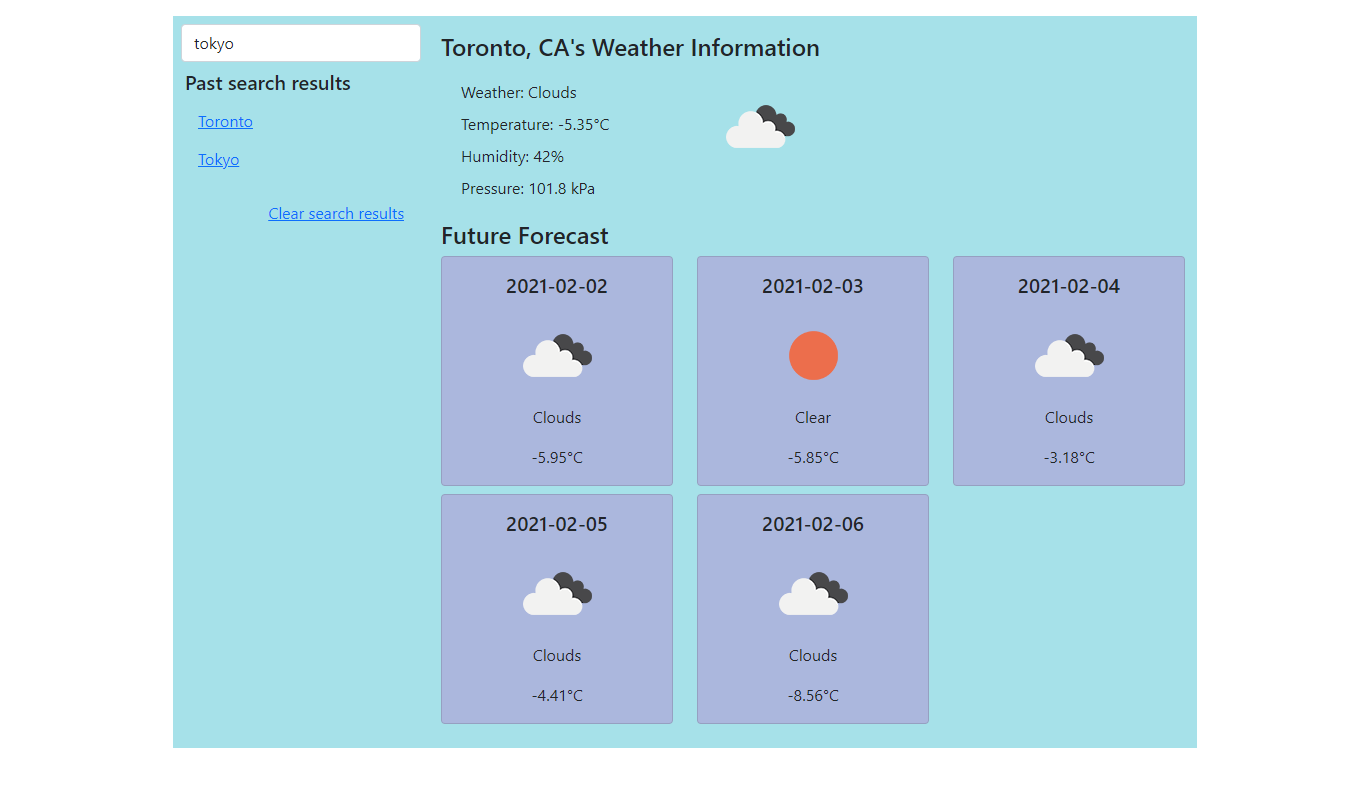
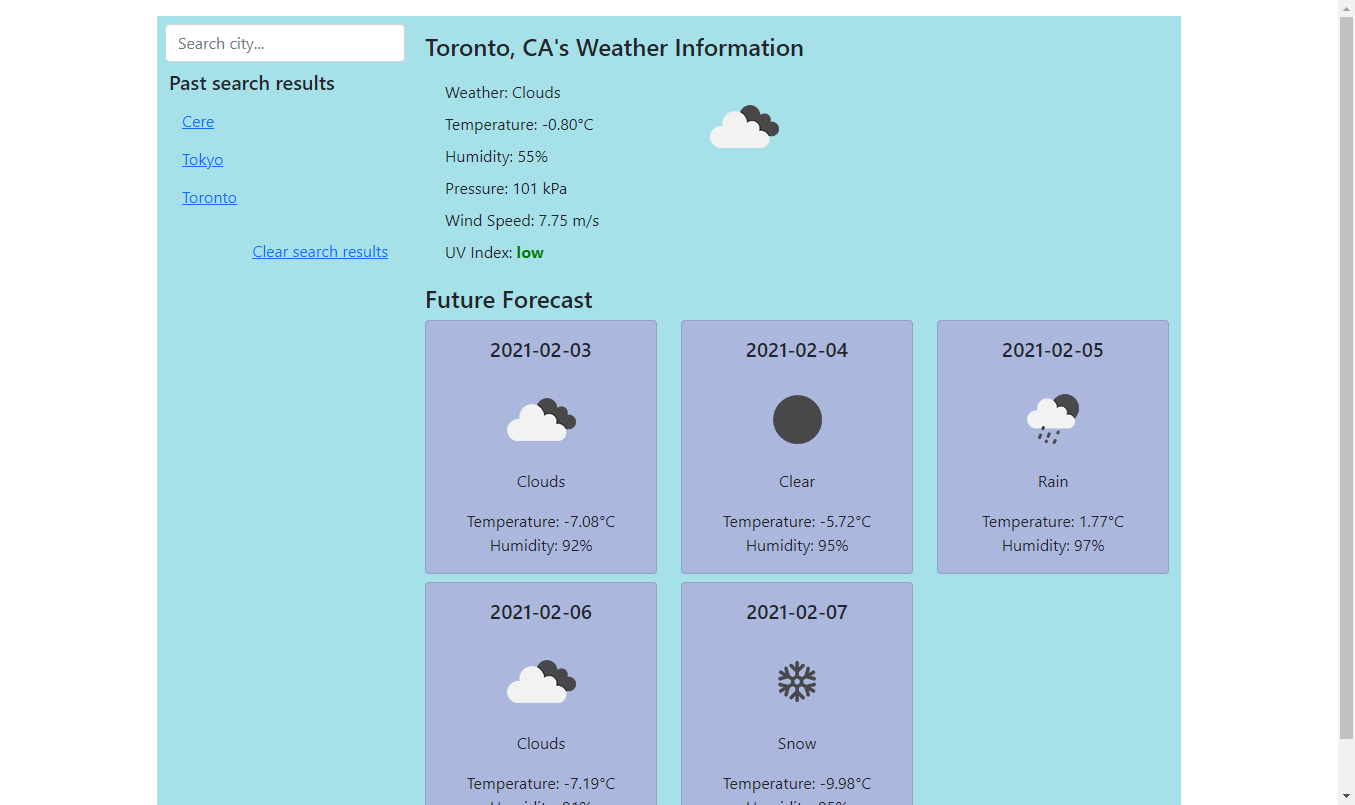
added more functionality

diff --git a/script.js b/script.js
@@ -1,4 +1,4 @@
-apiKey = '88547ae129179c5b0317315ddf40567c';
+const apiKey = '88547ae129179c5b0317315ddf40567c';
 
 // Load in saved locations
 let cityList = localStorage.cityList ? JSON.parse(localStorage.cityList): [];
@@ -7,7 +7,7 @@ if (cityList.length > 0) {
     document.querySelector('#resetRow').classList.remove('d-none');
     for (let i=0; i<cityList.length; i++) {
         document.querySelector('#searchList').innerHTML +=
-        `<li><button type="button" class="btn btn-link" onclick=pastSearch('${cityList[i]}')>${cityList[i]}</button></li>`;
+        `<li><button type="button" class="btn btn-link" onclick=queryAPI('${cityList[i]}')>${cityList[i]}</button></li>`;
     }
 }
 
@@ -25,21 +25,8 @@ async function onKeyPress(e) {
         document.querySelector('#searchRow').classList.remove('d-none');
         document.querySelector('#resetRow').classList.remove('d-none');
         // send API request
-        let errCaught = false;
-        let weather = await fetch(`http://api.openweathermap.org/data/2.5/weather?q=${searchVar}&appid=${apiKey}`)
-        .then( r => r.json()).catch((error) => {
-            console.error('Error:', error);
-            errCaught = true;
-        });
-        if (Object.keys(weather).length > 0) handleWeather(weather);
-        let forecast = await fetch(`http://api.openweathermap.org/data/2.5/forecast?q=${searchVar}&appid=${apiKey}`)
-        .then( r => r.json()).catch((error) => {
-            console.error('Error:', error);
-            errCaught = true;
-        });
-        if (Object.keys(forecast).length > 0) handleForecast(forecast);
-        if (errCaught) alert('Could not find city. Please try again.');
-        // check if entry already in list
+        queryAPI(searchVar);
+        // check if entry already in past search list
         let entryExist = false;
         for (let i=0; i<cityList.length; i++) {
             if (searchVar === cityList[i]) {
@@ -51,23 +38,62 @@ async function onKeyPress(e) {
         if (!entryExist) {
             cityList.push(searchVar);
             document.querySelector('#searchList').innerHTML +=
-            `<li><button type="button" class="btn btn-link" onclick=pastSearch('${searchVar}')>${searchVar}</button></li>`;
+            `<li><button type="button" class="btn btn-link" onclick=queryAPI('${searchVar}')>${searchVar}</button></li>`;
             localStorage.cityList = JSON.stringify(cityList);
         }
     }
 }
 
+async function queryAPI(city) {
+    // send API request
+    let lat, lon, errCaught = false;
+    let weather = await fetch(`http://api.openweathermap.org/data/2.5/weather?q=${city}&appid=${apiKey}`)
+    .then( r => r.json()).catch((error) => {
+        console.error('Error:', error);
+        errCaught = true;
+    });
+    if (Object.keys(weather).length > 0) {
+        handleWeather(weather);
+        lat = weather.coord.lat;
+        lon = weather.coord.lon;
+    }
+    let uvInfo = await fetch(`http://api.openweathermap.org/data/2.5/uvi?lat=${lat}&lon=${lon}&appid=${apiKey}`)
+    .then( r => r.json()).catch((error) => {
+        console.error('Error:', error);
+        errCaught = true;
+    });
+    if (Object.keys(weather).length > 0) handleUV(uvInfo);
+    let forecast = await fetch(`http://api.openweathermap.org/data/2.5/forecast?q=${city}&appid=${apiKey}`)
+    .then( r => r.json()).catch((error) => {
+        console.error('Error:', error);
+        errCaught = true;
+    });
+    if (Object.keys(forecast).length > 0) handleForecast(forecast);
+    // Handle error
+    if (errCaught) alert('Could not find city. Please try again.');
+}
+
 function handleWeather(obj) {
     // print to HTML
-    console.log(obj);
     document.querySelector('#cityName').innerHTML = `${obj.name}, ${obj.sys.country}'s `;
     document.querySelector('#weatherInfo').innerHTML =
     `<li>Weather: ${obj.weather[0].main}</li>
     <li>Temperature: ${(obj.main.temp-273.15).toFixed(2)}&#176;C</li>
     <li>Humidity: ${obj.main.humidity}%</li>
-    <li>Pressure: ${obj.main.pressure/10} kPa</li>`;
+    <li>Pressure: ${obj.main.pressure/10} kPa</li>
+    <li>Wind Speed: ${obj.wind.speed} m/s</li>`;
     document.querySelector('#weatherIcon').innerHTML =
     `<img src="http://openweathermap.org/img/wn/${obj.weather[0].icon}@2x.png" alt="weather icon" />`;
+}
+
+function handleUV(uvInfo) {
+    let output, color;
+    if (uvInfo.value < 2.5) {output = 'low'; color='green';}
+    else if (uvInfo.value < 5.5) {output = 'moderate'; color='orange';}
+    else if (uvInfo.value < 8) {output = 'high'; color='red';}
+    else {output='very high'; color='purple';}
+    document.querySelector('#weatherInfo').innerHTML +=
+    `<li>UV Index: <b style='color:${color}'>${output}</b></li>`;
 }
 
 function handleForecast(obj) {
@@ -82,26 +108,12 @@ function handleForecast(obj) {
                     <h5 class="card-title">${obj.list[i].dt_txt.split(" ",1)}</h5>
                     <img src="http://openweathermap.org/img/wn/${obj.list[i].weather[0].icon}@2x.png" alt="weather icon"/>
                     <p class="card-text">${obj.list[i].weather[0].main}</p>
-                    <p class="card-text">${(obj.list[i].main.temp-273.15).toFixed(2)}&#176;C</p>
+                    <span class="card-text">Temperature: ${(obj.list[i].main.temp-273.15).toFixed(2)}&#176;C</span>
+                    <span class="card-text">Humidity: ${obj.list[i].main.humidity}%</span>
                 </div>
             </div>
         </div>`;
     }
-}
-
-async function pastSearch(btn) {
-    // send API request
-    let weather = await fetch(`http://api.openweathermap.org/data/2.5/weather?q=${btn}&appid=${apiKey}`)
-    .then( r => r.json()).catch((error) => {
-        console.error('Error:', error);
-        alert('Could not find city. Please try again.');
-    });
-    if (Object.keys(weather).length > 0) handleWeather(weather);
-    let forecast = await fetch(`http://api.openweathermap.org/data/2.5/forecast?q=${btn}&appid=${apiKey}`)
-    .then( r => r.json()).catch((error) => {
-        console.error('Error:', error);
-    });
-    if (Object.keys(forecast).length > 0) handleForecast(forecast);
 }
 
 function resetList() {

diff --git a/README.md b/README.md
@@ -10,19 +10,3 @@ https://sinsinkun.github.io/UTOR-WeatherApp
 ## Screenshot
 
 ![Screenshot](./screenshot.png)
-
-## Acceptance Criteria
-
-```
-GIVEN a weather dashboard with form inputs
-WHEN I search for a city
-THEN I am presented with current and future conditions for that city and that city is added to the search history
-WHEN I view current weather conditions for that city
-THEN I am presented with the city name, the date, an icon representation of weather conditions, the temperature, the humidity, the wind speed, and the UV index
-WHEN I view the UV index
-THEN I am presented with a color that indicates whether the conditions are favorable, moderate, or severe
-WHEN I view future weather conditions for that city
-THEN I am presented with a 5-day forecast that displays the date, an icon representation of weather conditions, the temperature, and the humidity
-WHEN I click on a city in the search history
-THEN I am again presented with current and future conditions for that city
-```
